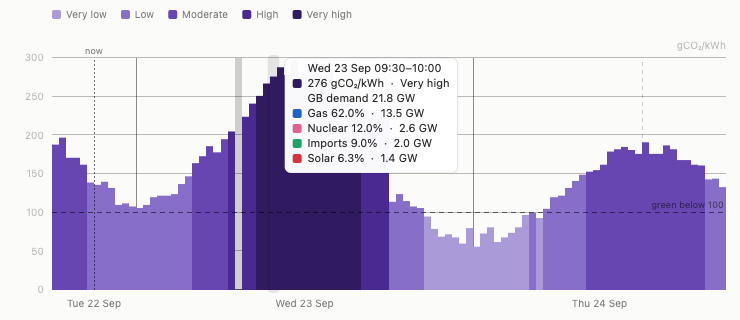
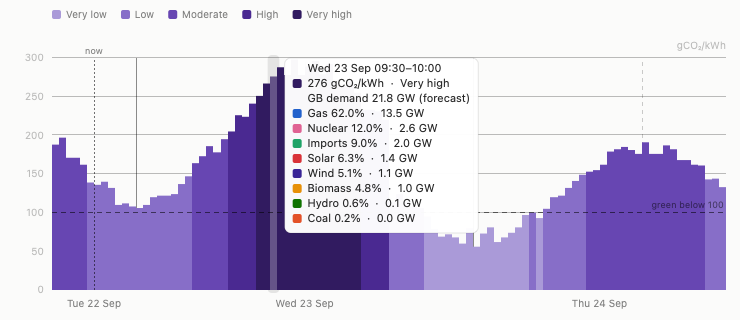
Update the README for the Home Mini and refresh its screenshots
Adds a section on what the Home Mini brings — live power in the menu, the Live Power window, the
usage gap filled in — and what it can't do. Fixes descriptions that had gone stale: smart charges
are a band now, not a marker under the axis (in AGENTS.md too), usage windows are per meter, and
the menu lists every tariff. The three screenshots are re-rendered from the current --chartdemo,
and two new ones show the Live Power window and a week filled from the Mini.

diff --git a/README.md b/README.md
@@ -1,8 +1,9 @@
 # Octopus
 
 A macOS menu bar app for Octopus Energy, built around Intelligent Octopus Go. It shows whether you
-are on the cheap or standard rate right now, when that next changes, your car's charge level, and
-charts of your electricity and gas use.
+are on the cheap or standard rate right now, when that next changes, how clean the grid is, your
+car's charge level, and charts of your electricity and gas use — and, with an Octopus Home Mini,
+the power you are using right now.
 
 There are also four command-line scripts covering the same ground, for the terminal or for cron.
 
@@ -21,6 +22,10 @@ There are also four command-line scripts covering the same ground, for the termi
 </p>
 <p>
   <img src="images/carbon-intensity.png" alt="Carbon Intensity window with a tooltip showing the generation mix for a half hour" width="600">
+</p>
+<p>
+  <img src="images/live-power.png" alt="Live Power window showing the last hour of ten-second readings, with a kettle's spike and the newest reading labelled at the end of the line" width="420">
+  <img src="images/usage-home-mini.png" alt="Electricity Use window whose last two days, not yet published by Octopus, are filled from the Home Mini and drawn faded" width="420">
 </p>
 
 These are rendered by the app's own `--chartdemo` flag against fixed sample data (see
@@ -58,27 +63,26 @@ access page of your Octopus dashboard. It is stored in your login Keychain, neve
   under), smoke when it isn't — filled and green on the cheap rate, outlined on the standard rate.
   Until the carbon forecast has loaded it shows a bolt, filled green or outlined the same way, and
   a warning triangle if there is no data or an error. Hover it for the current price and intensity.
-- **Menu:** the current rate and when it next changes, the carbon intensity now and when it is
-  next green (100 gCO₂/kWh or under), the power you are using right now if you have an Octopus
-  Home Mini, the charge Octopus has planned for tonight,
-  each car's charge level in both percent and kWh, charging status and today's charging goal, your account balance, any
-  fixed tariff about to end, and the cheap windows in the next 48 hours including smart-charge
-  dispatches.
+- **Menu:** the current rate and when it next changes, the cheap windows in the next 48 hours
+  including smart-charge dispatches, the carbon intensity now and when it is next green
+  (100 gCO₂/kWh or under), the power you are using right now if you have an Octopus Home Mini, the
+  charge Octopus has planned for tonight, each car's charge level in both percent and kWh,
+  charging status and today's charging goal, your account balance, and every tariff on the
+  account with its end date.
 - **Alerts:** a notification 10 minutes before the rate changes — either way, cheap starting or
-  cheap ending — another when the smart-charge plan changes — a slot added, dropped, moved by more than five minutes, or cancelled
-  altogether — and one as a fixed tariff nears its end, at 30 days, 14, 7 and the day before.
-  Octopus nudges dispatches by a minute or two constantly, and those are ignored. All three can be
-  turned off in Settings.
-- **Usage:** click a tariff in the Tariffs section to open that meter's week of use as stacked
-  columns, one window per meter. Octopus publishes about two days behind; with a Home Mini, that
-  gap is filled from the Mini's own readings, drawn faded until Octopus publishes the real figures.
-  Gas costs come from the Mini; electricity's are worked out from your latest published rates,
-  and Agile, whose price changes every half hour, is left as a gap.
-- **Carbon intensity:** click the current figure in the menu's carbon intensity section to open
-  how clean the grid is where you live, half hour by half hour.
-- **Live power:** with an Octopus Home Mini, click the live power figure (⌘L) to chart the power
-  you've used over the last hour from ten-second readings, or over 6 or 24 hours as five-minute
-  averages. It keeps updating while the window is open.
+  cheap ending — another when the smart-charge plan changes — a slot added, dropped, moved by more
+  than five minutes, or cancelled altogether — and one as a fixed tariff nears its end, at 30
+  days, 14, 7 and the day before. Octopus nudges dispatches by a minute or two constantly, and
+  those are ignored. All three can be turned off in Settings.
+
+The windows open from the figures they chart:
+
+- **Usage:** click a tariff in the Tariffs section (⌘1, ⌘2…) to open that meter's week of use as
+  stacked columns, one window per meter.
+- **Carbon intensity:** click the current figure in the carbon intensity section (⌘C) to open how
+  clean the grid is where you live, half hour by half hour.
+- **Live power:** with a Home Mini, click the live power figure (⌘L) to chart the power you have
+  used over the last hour, or the last 6 or 24 hours. See [With a Home Mini](#with-a-home-mini).
 
 ### Starting at login
 
@@ -92,23 +96,25 @@ bundle to launch and the checkbox reports that it cannot find one.
 
 ### The usage windows
 
-Each fuel gets its own window, with its own week position and meter. Both offer:
+Each meter gets its own window, with its own week position. Each offers:
 
 - **kWh or pounds**, and a column **per day or per half hour**.
 - **Week navigation.** Back and forward a week at a time; forward stops at the current week.
   Weeks you have already looked at are remembered, so going back is instant.
 - **Hover** a column for its breakdown, each band's price, and the exact period.
 
-Columns stack by **price** — off-peak and standard — based on what each half hour was actually
-billed, not on an assumed schedule. A smart charge is marked under the axis rather than split out
-of the bar, because the tariff's per-device buckets are a billing allocation rather than a
-measurement of what the car drew.
+Columns stack by **price**, based on what each half hour was actually billed rather than on an
+assumed schedule: standard at the bottom, off-peak above it, and on top **smart charge** — time
+that was cheap only because Octopus ran a smart charge outside the off-peak hours. Smart-charge
+time is split out by when it happened, not by the tariff's per-device buckets, which are a billing
+allocation rather than a measurement of what the car drew; so it covers everything used in those
+half hours, house and car alike.
 
-Gas is single-rate, so its columns are one band with no smart-charge marker.
+Gas is single-rate, so its columns are one band.
 
 Days Octopus has not published yet show a grey dash rather than an empty bar — the two mean
 different things. Octopus runs roughly two days behind, so the last day or two of the current week
-is normally blank.
+is normally blank. With a Home Mini they are filled in, provisionally — see below.
 
 In pounds, the standing charge stacks underneath as a grey band, so a column totals what the period
 actually cost. It is left out of the kWh view, where it would be energy that was never delivered.
@@ -186,12 +192,42 @@ history, so the arrows are disabled on Octopus.
 The region comes from the postcode of whichever electricity meter is selected in Settings, and
 only the outward part of it is sent.
 
+### With a Home Mini
+
+An Octopus Home Mini pairs with your smart meters and passes their readings to Octopus as they
+happen: electricity every ten seconds, gas about every half hour. The app finds it on its own —
+there is nothing to set up — and uses it in three places:
+
+- **Live power in the menu.** "Using 443 W", with the time of the reading. Opening the menu asks
+  for a fresh one, and the figure updates in place a second later.
+- **The Live Power window.** The last hour from ten-second readings, refreshed every minute; or the
+  last 6 or 24 hours as five-minute averages, refreshed every five. Hover for any reading. The
+  footer gives the energy used over the period and the peak.
+- **Filling the usage gap.** The days Octopus hasn't published yet are filled from the Mini's own
+  half-hourly readings, drawn faded with a "Not yet published" key, and replaced as Octopus
+  catches up. Gas costs come from the Mini itself. The Mini reports no cost for electricity, so
+  those half hours are priced at your latest published rates — off-peak or standard by the
+  time of day, and cheap during a smart charge Octopus still has a record of, which is about a day.
+
+What it can't do:
+
+- **There is no live gas figure.** Gas meters run on batteries and wake about every half hour, so
+  gas only ever arrives half-hourly, with no reading of power.
+- **History starts when the Mini was paired.** Nothing earlier is filled in.
+- **Agile electricity isn't filled**, since its price changes every half hour; nor is a gas meter
+  that reports cubic metres rather than kWh, or a property with more than one meter of a fuel,
+  where there's no telling which reading belongs to which.
+
+The Live Power window costs one request a minute while it is open on the last hour, so close it
+when you are done with it.
+
 ### Multiple properties and meters
 
 Meters are matched to the property they actually sit at, and only those with an active agreement
-are offered. Every meter's tariff opens its own usage window, titled with the address. If you have more than one electricity meter, **Settings** chooses which one
-drives the menu bar rate, the rate-change alerts and the carbon intensity postcode. Smart-charge
-and tariff-end alerts cover the whole account whichever you pick.
+are offered. Every meter's tariff opens its own usage window, titled with the address, and each
+Home Mini gets its own live power line and window. If you have more than one electricity meter,
+**Settings** chooses which one drives the menu bar rate, the rate-change alerts and the carbon
+intensity postcode. Smart-charge and tariff-end alerts cover the whole account whichever you pick.
 
 ### Command-line scripts
 

diff --git a/AGENTS.md b/AGENTS.md
@@ -428,10 +428,13 @@ against real data. Treat those paths as unverified.
 
 ## Design decisions worth keeping
 
-- **Bands are prices, not devices.** The stack encodes off-peak versus standard, which is real. A
-  smart charge is a marker under the axis. See the allocation note above for why.
+- **Bands are prices, not devices.** The stack encodes off-peak, standard and smart charge, which
+  are real. The smart-charge band is cheap time outside the off-peak timetable, split out by when
+  it happened rather than by the per-device buckets — so it is everything used in those half hours,
+  house and car alike, never "what the car drew". See the allocation note above for why. It
+  replaced a marker under the axis.
 - **Standard sits at the bottom** of the consumption bands, anchored to the baseline, so it can be
-  compared day to day. Off-peak floats on top.
+  compared day to day. Off-peak floats above it, and smart charge on top.
 - **The standing charge stacks below both, in money mode only**, so a column totals what the day
   actually cost. It is neutral grey, not a categorical hue: it is not a rate, and no hue in the
   palette separates from blue in dark mode at the bottom of a stack — violet, the closest, is
@@ -529,7 +532,7 @@ against real data. Treat those paths as unverified.
 - **The mix stack is normalised to each column's own total.** The shares are rounded at source and
   can add to 100.1, which draws a sliver above a fixed 100% axis and reads as a bug.
 - **The chart palette is validated**, not chosen by eye. Off-peak green `#1baf7a` / `#199e70`,
-  standard blue `#2a78d6` / `#3987e5` (light/dark), smart-charge marker orange `#eb6834` /
+  standard blue `#2a78d6` / `#3987e5` (light/dark), smart-charge orange `#eb6834` /
   `#d95926`. These pass colourblind and contrast checks in both modes. Green is below 3:1 on the
   light surface, which is why the legend carries totals and columns are labelled — do not remove
   those without re-checking the palette.
